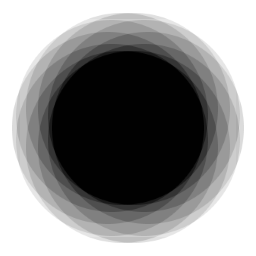
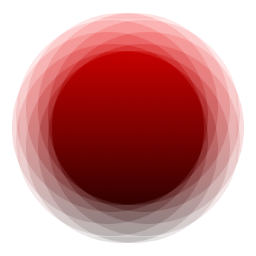
Corrected the tablet service's dispose process and started storing packet ID to fix a multiple click problem with tablets. Changed all brush images to red-black gradients to make them more useful with colorize off using hsv mixing.

diff --git a/Gui/DynamicDrawWindow.cs b/Gui/DynamicDrawWindow.cs
@@ -190,9 +190,20 @@ namespace DynamicDraw
         private readonly TabletService tabletService;
 
         /// <summary>
-        /// The pressure ratio as a value from 0 to 1, where 0 is no pressure at all and 1 is max measurable.
+        /// The pressure ratio as a value from 0 to 1, where 0 is no pressure at all and 1 is max measurable. This is
         /// </summary>
         private float tabletPressureRatio;
+
+        /// <summary>
+        /// The previous pressure ratio so lerping the sensitivity can be done for nonzero brush density.
+        /// </summary>
+        private float tabletPressureRatioPrev;
+
+        /// <summary>
+        /// The tablet reading service is async to this plugin, so any time this plugin runs faster, it might read the
+        /// same packets multiple times. Tracking the serial number of the last packet ensures unique reads.
+        /// </summary>
+        private uint tabletLastPacketId;
 
         /// <summary>
         /// The folder used to store undo/redo images, and deleted on exit.
@@ -946,6 +957,8 @@ namespace DynamicDraw
                     {
                         listviewBrushPicker.Items.Add(new ListViewItem(keyValPair.Key));
                     }
+
+                    listviewBrushPicker.AutoResizeColumn(0, ColumnHeaderAutoResizeStyle.ColumnContent);
                 }
             }
             catch (Exception ex)
@@ -1205,15 +1218,15 @@ namespace DynamicDraw
                     tempDir = null;
                 }
 
-                //Disposes all form bitmaps.
                 bmpBrush?.Dispose();
                 bmpBrushEffects?.Dispose();
                 bmpCurrentDrawing?.Dispose();
                 bmpBackgroundClipboard?.Dispose();
 
-                //Disposes all cursors.
                 displayCanvas.Cursor = Cursors.Default;
                 cursorColorPicker?.Dispose();
+
+                tabletService?.Dispose();
             }
 
             base.Dispose(disposing);
@@ -3258,10 +3271,12 @@ namespace DynamicDraw
             // listviewBrushPicker
             // 
             this.listviewBrushPicker.HideSelection = false;
+            this.listviewBrushPicker.Columns.Add("_"); // name hidden and unimportant
+            this.listviewBrushPicker.HeaderStyle = ColumnHeaderStyle.None;
             resources.ApplyResources(this.listviewBrushPicker, "listviewBrushPicker");
             this.listviewBrushPicker.Name = "listviewBrushPicker";
             this.listviewBrushPicker.UseCompatibleStateImageBehavior = false;
-            this.listviewBrushPicker.View = System.Windows.Forms.View.List;
+            this.listviewBrushPicker.View = System.Windows.Forms.View.Details;
             this.listviewBrushPicker.SelectedIndexChanged += new EventHandler(this.ListViewBrushPicker_SelectedIndexChanged);
             this.listviewBrushPicker.MouseEnter += new EventHandler(this.ListviewBrushPicker_MouseEnter);
             // 
@@ -6126,11 +6141,6 @@ namespace DynamicDraw
                             tabletPressureRatio,
                             ((CmbxTabletValueType.CmbxEntry)cmbxTabPressureBrushSize.SelectedItem).ValueMember);
 
-                        if (finalBrushSize <= 0)
-                        {
-                            return;
-                        }
-
                         double deltaX = (mouseLoc.X - mouseLocPrev.X) / canvasZoom;
                         double deltaY = (mouseLoc.Y - mouseLocPrev.Y) / canvasZoom;
                         double brushWidthFrac = finalBrushSize / (double)finalBrushDensity;
@@ -6142,6 +6152,16 @@ namespace DynamicDraw
 
                         for (int i = 1; i <= (int)numIntervals; i++)
                         {
+                            // lerp between the last and current tablet pressure for smoother lines
+                            if (tabletPressureRatioPrev != tabletPressureRatio && spinTabPressureBrushSize.Value != 0)
+                            {
+                                finalBrushSize = Utils.GetStrengthMappedValue(sliderBrushSize.Value,
+                                    (int)spinTabPressureBrushSize.Value,
+                                    sliderBrushSize.Maximum,
+                                    (float)(tabletPressureRatioPrev + i / numIntervals * (tabletPressureRatio - tabletPressureRatioPrev)),
+                                    ((CmbxTabletValueType.CmbxEntry)cmbxTabPressureBrushSize.SelectedItem).ValueMember);
+                            }
+
                             DrawBrush(new PointF(
                                 (float)(mouseLocPrev.X / canvasZoom + xDist * brushWidthFrac * i),
                                 (float)(mouseLocPrev.Y / canvasZoom + yDist * brushWidthFrac * i)),
@@ -6155,6 +6175,8 @@ namespace DynamicDraw
                             (float)((e.Location.X - canvas.x) - xDist * extraDist * canvasZoom),
                             (float)((e.Location.Y - canvas.y) - yDist * extraDist * canvasZoom));
                         mouseLocPrev = mouseLoc;
+
+                        tabletPressureRatioPrev = tabletPressureRatio;
                     }
                 }
             }
@@ -6536,6 +6558,7 @@ namespace DynamicDraw
         {
             settings.CustomBrushes.Remove(currentBrushPath);
             listviewBrushPicker.Items.RemoveAt(listviewBrushPicker.SelectedIndices[0]);
+            listviewBrushPicker.AutoResizeColumn(0, ColumnHeaderAutoResizeStyle.ColumnContent);
             settings.MarkSettingsChanged();
             currentBrushPath = null;
             bttnDeleteBrush.Enabled = false;
@@ -6788,6 +6811,7 @@ namespace DynamicDraw
                 }
 
                 listviewBrushPicker.Items.Add(new ListViewItem(inputText) { Selected = true });
+                listviewBrushPicker.AutoResizeColumn(0, ColumnHeaderAutoResizeStyle.ColumnContent);
                 currentBrushPath = inputText;
                 bttnDeleteBrush.Enabled = true;
             }
@@ -7625,6 +7649,10 @@ namespace DynamicDraw
         {
             // Move cursor to stylus. This works since packets are only sent for touch or hover events.
             Cursor.Position = new Point(packet.pkX, packet.pkY);
+
+            if (packet.pkSerialNumber == tabletLastPacketId) { return; }
+
+            tabletLastPacketId = packet.pkSerialNumber;
 
             // Gets the current pressure.
             int maxPressure = WintabDN.CWintabInfo.GetMaxPressure();

diff --git a/TabletSupport/TabletService.cs b/TabletSupport/TabletService.cs
@@ -8,7 +8,7 @@ namespace DynamicDraw.TabletSupport
     /// </summary>
     public class TabletService : IDisposable
     {
-        private static TabletService tabletService;
+        private TabletService tabletService;
         private CWintabContext winTabContext;
         private CWintabData winTabData;
         private bool disposedValue;
@@ -21,12 +21,7 @@ namespace DynamicDraw.TabletSupport
         /// </summary>
         public static TabletService GetTabletService()
         {
-            if (tabletService == null)
-            {
-                tabletService = new TabletService();
-            }
-
-            return tabletService;
+            return new TabletService();
         }
 
         /// <summary>
@@ -125,6 +120,7 @@ namespace DynamicDraw.TabletSupport
                     winTabData = null;
                 }
 
+                tabletService?.Dispose();
                 winTabContext?.Close();
                 disposedValue = true;
             }
